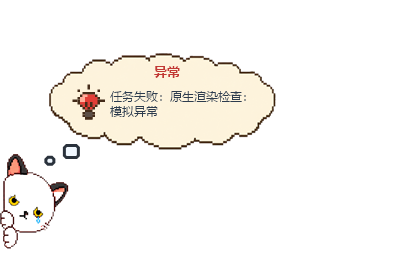
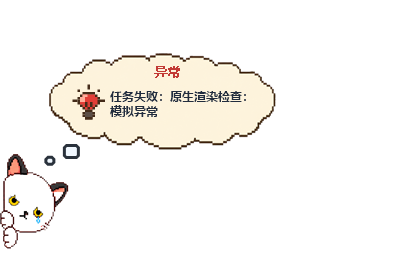
feat: improve cloud text readability

Changed region(s): [[0.2476, 0.3385, 0.5881, 0.4615], [0.3714, 0.2462, 0.4333, 0.3077]]

diff --git a/src/platform/windows/renderer.cpp b/src/platform/windows/renderer.cpp
@@ -39,6 +39,30 @@ Color header_color(ReminderState state) {
     }
 }
 
+std::unique_ptr<FontFamily> make_cloud_font_family() {
+    return [] {
+        // YouYuan (幼圆) gives Chinese cloud text a softer, playful shape. Keep
+        // dependable CJK/system fallbacks for Windows editions without it.
+        for (const auto* name : {L"YouYuan", L"Microsoft YaHei UI", L"Segoe UI"}) {
+            auto candidate = std::make_unique<FontFamily>(name);
+            if (candidate->GetLastStatus() == Ok) return candidate;
+        }
+        return std::make_unique<FontFamily>(L"Arial");
+    }();
+}
+
+std::unique_ptr<FontFamily> make_body_font_family() {
+    return [] {
+        // Keep the playful rounded face for the header, but use a clearer CJK
+        // UI face for the task text so small strokes remain easy to read.
+        for (const auto* name : {L"Microsoft YaHei UI", L"Microsoft YaHei", L"Segoe UI"}) {
+            auto candidate = std::make_unique<FontFamily>(name);
+            if (candidate->GetLastStatus() == Ok) return candidate;
+        }
+        return std::make_unique<FontFamily>(L"Arial");
+    }();
+}
+
 std::wstring wide(std::string_view value) {
     if (value.empty()) return {};
     const auto count = MultiByteToWideChar(CP_UTF8, MB_ERR_INVALID_CHARS, value.data(),
@@ -135,6 +159,13 @@ bool Renderer::initialize(HINSTANCE instance, std::string* error) {
         if (error) *error = "GDI+ 初始化失败";
         return false;
     }
+    cloud_font_family_ = make_cloud_font_family();
+    body_font_family_ = make_body_font_family();
+    if (!cloud_font_family_ || !body_font_family_) {
+        if (error) *error = "云朵字体初始化失败";
+        shutdown();
+        return false;
+    }
     application_icon_ = static_cast<HICON>(LoadImageW(instance_, MAKEINTRESOURCEW(IDI_CODEXPETS_ICON),
                                                         IMAGE_ICON, 32, 32, LR_DEFAULTSIZE));
     if (!application_icon_) {
@@ -157,6 +188,8 @@ void Renderer::shutdown() noexcept {
     }
     if (application_icon_) DestroyIcon(application_icon_);
     application_icon_ = nullptr;
+    cloud_font_family_.reset();
+    body_font_family_.reset();
     cloud_bitmap_.reset();
     for (auto& bitmap : dock_cache_) bitmap.reset();
     dock_cache_side_ = -1;
@@ -330,8 +363,15 @@ void Renderer::draw_text(Graphics& graphics, const RenderState& state, double /*
     if (state.state == ReminderState::Busy && selected_index < static_cast<int>(state.progress_labels.size()) && state.progress_labels[static_cast<std::size_t>(selected_index)]) progress = *state.progress_labels[static_cast<std::size_t>(selected_index)];
     const auto header = state.state == ReminderState::Busy ? app_logic::format_busy_header(progress, state.selected_task_index, static_cast<int>(state.task_titles.size())) : state.status_text;
     const auto body = normalized_text(selected_body(state));
-    FontFamily family(L"Segoe UI"); Font header_font(&family,12.5f,FontStyleBold,UnitPixel); Font body_font(&family,11.5f,FontStyleRegular,UnitPixel);
-    SolidBrush header_brush(header_color(state.state)), body_brush(Color(255,45,60,78));
+    const auto& header_family = *cloud_font_family_;
+    const auto& body_family = *body_font_family_;
+    const auto header_style = header_family.IsStyleAvailable(FontStyleBold)
+        ? FontStyleBold : FontStyleRegular;
+    const auto body_style = body_family.IsStyleAvailable(FontStyleBold)
+        ? FontStyleBold : FontStyleRegular;
+    Font header_font(&header_family,13.0f,header_style,UnitPixel);
+    Font body_font(&body_family,12.0f,body_style,UnitPixel);
+    SolidBrush header_brush(header_color(state.state)), body_brush(Color(255,34,45,62));
     StringFormat hf;hf.SetAlignment(StringAlignmentCenter);hf.SetLineAlignment(StringAlignmentCenter);
     const auto header_rect = as_rect(render_layout::header_bounds(layout));
     const auto hw=wide(header);graphics.DrawString(hw.c_str(),-1,&header_font,header_rect,&hf,&header_brush);

diff --git a/src/platform/macos/main.mm b/src/platform/macos/main.mm
@@ -284,6 +284,31 @@ NSButton* MakeButton(NSString* title, id target, SEL action, NSRect frame) {
     return button;
 }
 
+NSFont* CloudFont(CGFloat size, BOOL bold) {
+    // Prefer Apple's rounded Chinese typeface to match Windows YouYuan. The
+    // rounded system design remains a safe fallback when the CJK face is absent.
+    NSArray<NSString*>* names = bold
+        ? @[@"STYuanti-SC-Bold", @"STYuanti-SC-Regular", @"HannotateSC-W7", @"WawatiSC-Regular"]
+        : @[@"STYuanti-SC-Regular", @"HannotateSC-W5", @"WawatiSC-Regular"];
+    for (NSString* name in names) {
+        if (NSFont* font = [NSFont fontWithName:name size:size]) return font;
+    }
+    NSFont* system = [NSFont systemFontOfSize:size
+                                      weight:bold ? NSFontWeightBold : NSFontWeightRegular];
+    NSFontDescriptor* rounded = [system.fontDescriptor
+        fontDescriptorWithDesign:NSFontDescriptorSystemDesignRounded];
+    return rounded ? [NSFont fontWithDescriptor:rounded size:size] : system;
+}
+
+NSFont* CloudBodyFont(CGFloat size) {
+    // PingFang's semibold CJK strokes stay much clearer than a simulated bold
+    // rounded face at the small size used inside the cloud.
+    for (NSString* name in @[@"PingFangSC-Semibold", @"PingFang SC", @"HiraginoSansGB-W6"]) {
+        if (NSFont* font = [NSFont fontWithName:name size:size]) return font;
+    }
+    return [NSFont systemFontOfSize:size weight:NSFontWeightSemibold];
+}
+
 std::string ArgumentAt(int argc, const char* const* argv, int index) {
     return index >= 0 && index < argc && argv[index] ? std::string(argv[index]) : std::string{};
 }
@@ -324,7 +349,7 @@ std::string ArgumentAt(int argc, const char* const* argv, int index) {
         _cache = [NSMutableDictionary dictionary];
         NSMutableParagraphStyle* headerStyle = [[NSMutableParagraphStyle alloc] init];
         headerStyle.alignment = NSTextAlignmentCenter;
-        NSFont* headerFont = [NSFont systemFontOfSize:12.5 weight:NSFontWeightBold];
+        NSFont* headerFont = CloudFont(13.0, YES);
         _headerAttributes = @[
             @{NSFontAttributeName: headerFont, NSForegroundColorAttributeName: HeaderColor(ReminderState::Idle),
               NSParagraphStyleAttributeName: headerStyle},
@@ -339,11 +364,11 @@ std::string ArgumentAt(int argc, const char* const* argv, int index) {
         ];
         NSMutableParagraphStyle* bodyStyle = [[NSMutableParagraphStyle alloc] init];
         bodyStyle.lineBreakMode = NSLineBreakByWordWrapping;
-        bodyStyle.minimumLineHeight = 15;
-        bodyStyle.maximumLineHeight = 15;
+        bodyStyle.minimumLineHeight = 16;
+        bodyStyle.maximumLineHeight = 16;
         _bodyAttributes = @{
-            NSFontAttributeName: [NSFont systemFontOfSize:11.5],
-            NSForegroundColorAttributeName: [NSColor colorWithSRGBRed:45/255.0 green:60/255.0 blue:78/255.0 alpha:1],
+            NSFontAttributeName: CloudBodyFont(12.0),
+            NSForegroundColorAttributeName: [NSColor colorWithSRGBRed:34/255.0 green:45/255.0 blue:62/255.0 alpha:1],
             NSParagraphStyleAttributeName: bodyStyle
         };
         _dotFillColor = [NSColor colorWithSRGBRed:241/255.0 green:248/255.0 blue:1 alpha:1];

diff --git a/src/platform/windows/renderer.h b/src/platform/windows/renderer.h
@@ -90,6 +90,8 @@ private:
     int pixel_height_{};
     double scale_{1.0};
     HICON application_icon_{};
+    std::unique_ptr<Gdiplus::FontFamily> cloud_font_family_{};
+    std::unique_ptr<Gdiplus::FontFamily> body_font_family_{};
     BitmapPtr cloud_bitmap_{};
     std::array<BitmapPtr, 20> dock_cache_{};
     int dock_cache_side_{-1};

diff --git a/CHANGELOG.md b/CHANGELOG.md
@@ -1,5 +1,17 @@
 # Changelog
 
+## [4.1.8] - 2026-08-06
+
+### Changed
+- Windows 和 macOS 的云朵标题改用更圆润可爱的字体，并通过系统字体回退保证缺少首选字体时仍能正常显示。
+- 云朵正文改用更清晰的中文半粗体，适当增大字号、行高并加深文字颜色，改善小尺寸下的可读性。
+- Windows 将 GDI+ 字体对象纳入渲染器生命周期管理，避免退出阶段的字体资源释放异常。
+- 同步更新 README 使用的 15 张桌宠状态截图，展示新的云朵文字效果。
+
+### Tests
+- Windows x64 原生构建、核心测试、资源校验、普通/启动冒烟测试及 15 张状态预览通过。
+
+
 ## [4.1.7] - 2026-08-06
 
 ### Changed
